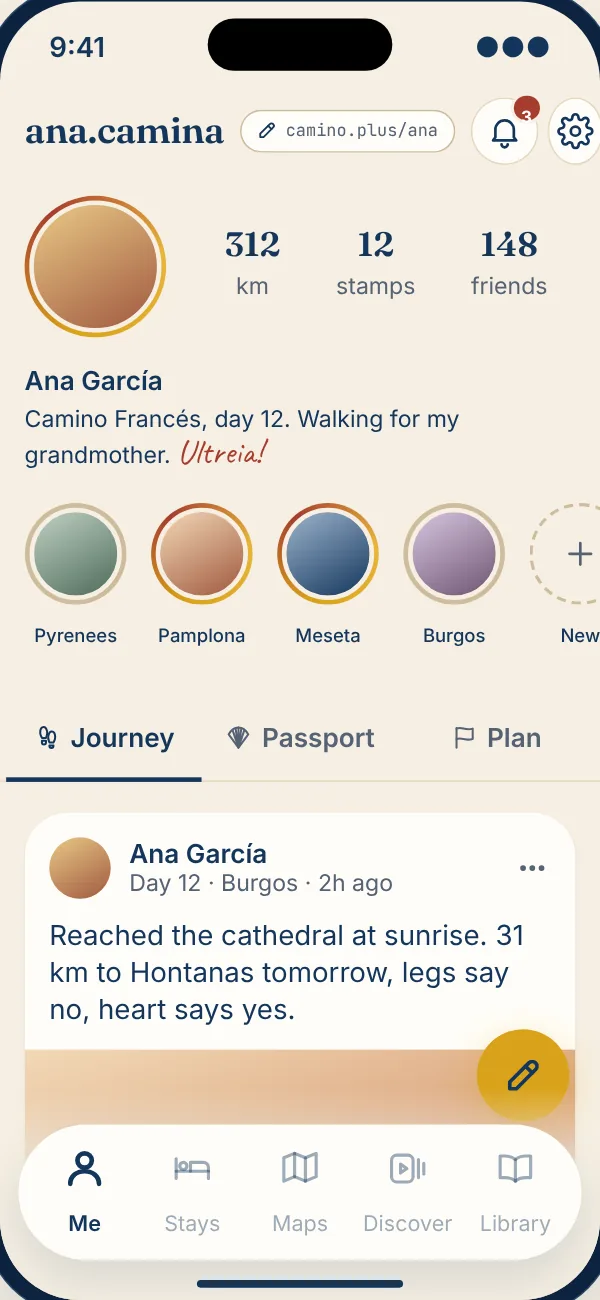
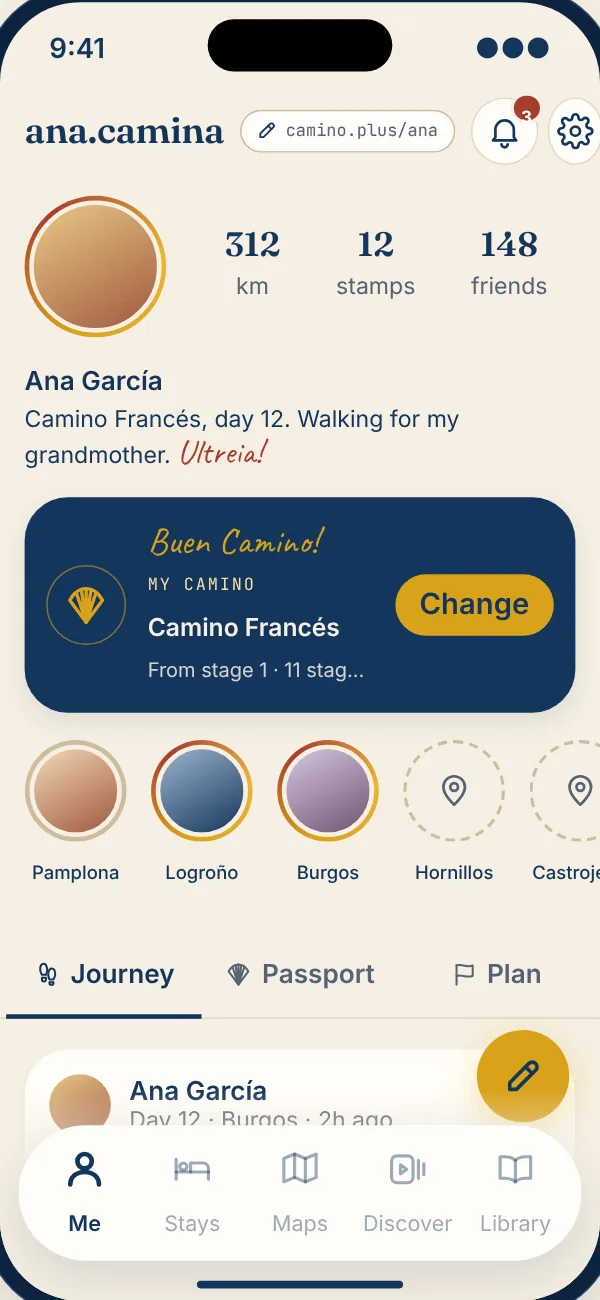
The My Camino card is in the design page's Me phone, with highlights per destination; a test keeps the card on Me
The app has had the My Camino card (Buen Camino!, the route, "From stage N", the gold Change button) since it was added, and
it is still there; the design page never showed it, only a row of highlights. The design now shows both: the card, and
under it one round picture for each destination of the day plan (a gold ring where the pilgrim posted, a dashed circle
for a destination still ahead). navigation.test.ts fails if the card goes from the app or from the design page.

Claude-Session: https://claude.ai/code/session_01Nqpq6SZ55VfnVqdosYhF6n

diff --git a/design/index.html b/design/index.html
@@ -1864,12 +1864,12 @@ footer .hand { font-family: var(--cp-font-accent); font-size: 36px; color: var(-
 <section class="doc" id="screens">
   <p class="eyebrow">15 · Screens @ 390 × 844</p>
   <h2>The app, tab by tab</h2>
-  <p class="intro">Reference layouts at iPhone 15 size. Scroll sideways to see all of them. Me has three sub-tabs, an inbox, a two-step write flow, a share screen and a stamp pop-up. Maps has two layers: helicopter view and city view. Stays opens into Airbnb / Agoda-style detail pages for stays and cafes. Explore has a second screen for the photo marketplace. Library has a banner, the private diary and the tabs Bible, Books and Music, with a gold note button that writes a diary page; the diary has a list of pages and an editor. Settings is a screen opened from the gear at the top right of Me; it opens the business-owner flow: a welcome page, five registration steps, the review status and the owner dashboard.</p>
+  <p class="intro">Reference layouts at iPhone 15 size. Scroll sideways to see all of them. Me has the My Camino card with its Change button, a row of highlights (one round picture for each destination of the day plan: a gold ring when you posted there, a dashed circle while it is still ahead), three sub-tabs, an inbox, a two-step write flow, a share screen and a stamp pop-up. Maps has two layers: helicopter view and city view. Stays opens into Airbnb / Agoda-style detail pages for stays and cafes. Explore has a second screen for the photo marketplace. Library has a banner, the private diary and the tabs Bible, Books and Music, with a gold note button that writes a diary page; the diary has a list of pages and an editor. Settings is a screen opened from the gear at the top right of Me; it opens the business-owner flow: a welcome page, five registration steps, the review status and the owner dashboard.</p>
 
   <div class="phones">
 
     <div class="phone-wrap">
-      <p class="phone-label"><b>Me · Journey</b>Instagram profile + Facebook timeline</p>
+      <p class="phone-label"><b>Me · Journey</b>My Camino card · highlights per destination · timeline</p>
       <div class="phone">
         <div class="status"><span>9:41</span><span class="island"></span><span>●●●</span></div>
         <div class="scroll">
@@ -1884,12 +1884,17 @@ footer .hand { font-family: var(--cp-font-accent); font-size: 36px; color: var(-
           </div>
           <div style="margin-top:14px"><div style="font-weight:600;font-size:17px">Ana García</div>
           <div style="font-size:15px;line-height:22px">Camino Francés, day 12. Walking for my grandmother. <span style="font-family:var(--cp-font-accent);font-size:22px;color:var(--cp-color-red)">Ultreia!</span></div></div>
-          <div class="highlights" style="margin-top:18px">
-            <div><span class="cp-ring seen"><span class="cp-avatar" style="background:linear-gradient(150deg,#BFD0C4,#4E6B5A)"></span></span>Pyrenees</div>
-            <div><span class="cp-ring"><span class="cp-avatar" style="background:linear-gradient(150deg,#F2D8B6,#A0583F)"></span></span>Pamplona</div>
-            <div><span class="cp-ring"><span class="cp-avatar" style="background:linear-gradient(150deg,#9DB4CC,#14365D)"></span></span>Meseta</div>
-            <div><span class="cp-ring seen"><span class="cp-avatar" style="background:linear-gradient(150deg,#D7C6E0,#6E5470)"></span></span>Burgos</div>
-            <div><span class="add"><svg class="cp-icon"><use href="#i-plus"/></svg></span>New</div>
+          <div style="margin-top:16px;display:flex;align-items:center;gap:14px;padding:14px;border-radius:var(--cp-radius-lg);background:var(--cp-surface-inverse);color:var(--cp-text-inverse);box-shadow:var(--cp-shadow-md)">
+            <span style="width:52px;height:52px;border-radius:50%;border:1.5px solid rgba(217,162,27,.55);display:grid;place-items:center;flex:none;color:var(--cp-color-gold)"><svg class="cp-icon" style="width:30px;height:30px"><use href="#i-shell"/></svg></span>
+            <div style="flex:1;min-width:0"><div style="font-family:var(--cp-font-accent);font-size:24px;line-height:28px;color:var(--cp-color-gold)">Buen Camino!</div><div style="font-family:var(--cp-font-mono);font-size:11px;letter-spacing:1.2px;text-transform:uppercase;color:var(--cp-color-gold-soft)">My Camino</div><div style="font-weight:600;font-size:16px">Camino Francés</div><div style="font-size:13px;opacity:.85;white-space:nowrap;overflow:hidden;text-overflow:ellipsis">From stage 1 · 11 stages done</div></div>
+            <span style="height:40px;padding:0 16px;border-radius:999px;background:var(--cp-color-gold);color:var(--cp-color-blue);font-weight:600;display:inline-flex;align-items:center;flex:none">Change</span>
+          </div>
+          <div class="highlights" style="margin-top:16px">
+            <div><span class="cp-ring seen"><span class="cp-avatar" style="background:linear-gradient(150deg,#F2D8B6,#A0583F)"></span></span>Pamplona</div>
+            <div><span class="cp-ring"><span class="cp-avatar" style="background:linear-gradient(150deg,#9DB4CC,#14365D)"></span></span>Logroño</div>
+            <div><span class="cp-ring"><span class="cp-avatar" style="background:linear-gradient(150deg,#D7C6E0,#6E5470)"></span></span>Burgos</div>
+            <div><span class="add" style="width:66px;height:66px"><svg class="cp-icon"><use href="#i-pin"/></svg></span>Hornillos</div>
+            <div><span class="add" style="width:66px;height:66px"><svg class="cp-icon"><use href="#i-pin"/></svg></span>Castrojeriz</div>
           </div><div class="cp-subtabs" style="margin:22px -24px 20px;padding:0 12px"><span class="on"><svg class="cp-icon sm"><use href="#i-steps"/></svg>Journey</span><span class=""><svg class="cp-icon sm"><use href="#i-shell"/></svg>Passport</span><span class=""><svg class="cp-icon sm"><use href="#i-flag"/></svg>Plan</span></div>
           <article class="cp-post">
             <div class="hd"><span class="cp-avatar"></span><div style="flex:1"><div class="n">Ana García</div><div class="m">Day 12 · Burgos · 2h ago</div></div><svg class="cp-icon" style="color:var(--cp-text-muted)"><use href="#i-dots"/></svg></div>

diff --git a/mobile/src/lib/__tests__/navigation.test.ts b/mobile/src/lib/__tests__/navigation.test.ts
@@ -77,6 +77,19 @@ check('Me opens Settings from a gear at the top right: after the inbox bell, in 
   assert.match(src.slice(gear, gear + 200), /label="Settings"/);
 });
 
+check('the My Camino card stays on Me, with its Change button, in the app and in the design page', () => {
+  const me = read(join('app', '(tabs)', 'me.tsx'));
+  assert.match(me, /accessibilityLabel="Change Camino"/);
+  assert.match(me, /My Camino/);
+  assert.match(me, /<AppText variant="label" color=\{role\.onHighlight\}>Change<\/AppText>/);
+  assert.match(me, /router\.push\('\/change-camino'\)/);
+  const design = readFileSync(join(root, '..', 'design', 'index.html'), 'utf8');
+  const phone = design.slice(design.indexOf('<b>Me · Journey</b>'), design.indexOf('<b>Me · Write · Pick photos</b>'));
+  assert.ok(phone.length > 1000, 'the Me · Journey phone was not found in design/index.html');
+  assert.match(phone, />My Camino</, 'the design page lost the My Camino card');
+  assert.match(phone, />Change</, 'the design page lost the Change button');
+});
+
 check('after a light/dark switch the app returns to Settings with Me underneath, so Back still works', () => {
   const layout = read(join('app', '_layout.tsx'));
   assert.match(layout, /consumeReturnToSettings\(\)\) return;\n\s+setTimeout\(\(\) => \{ try \{ router\.replace\('\/me'\); router\.push\('\/settings'\); \} catch/);
